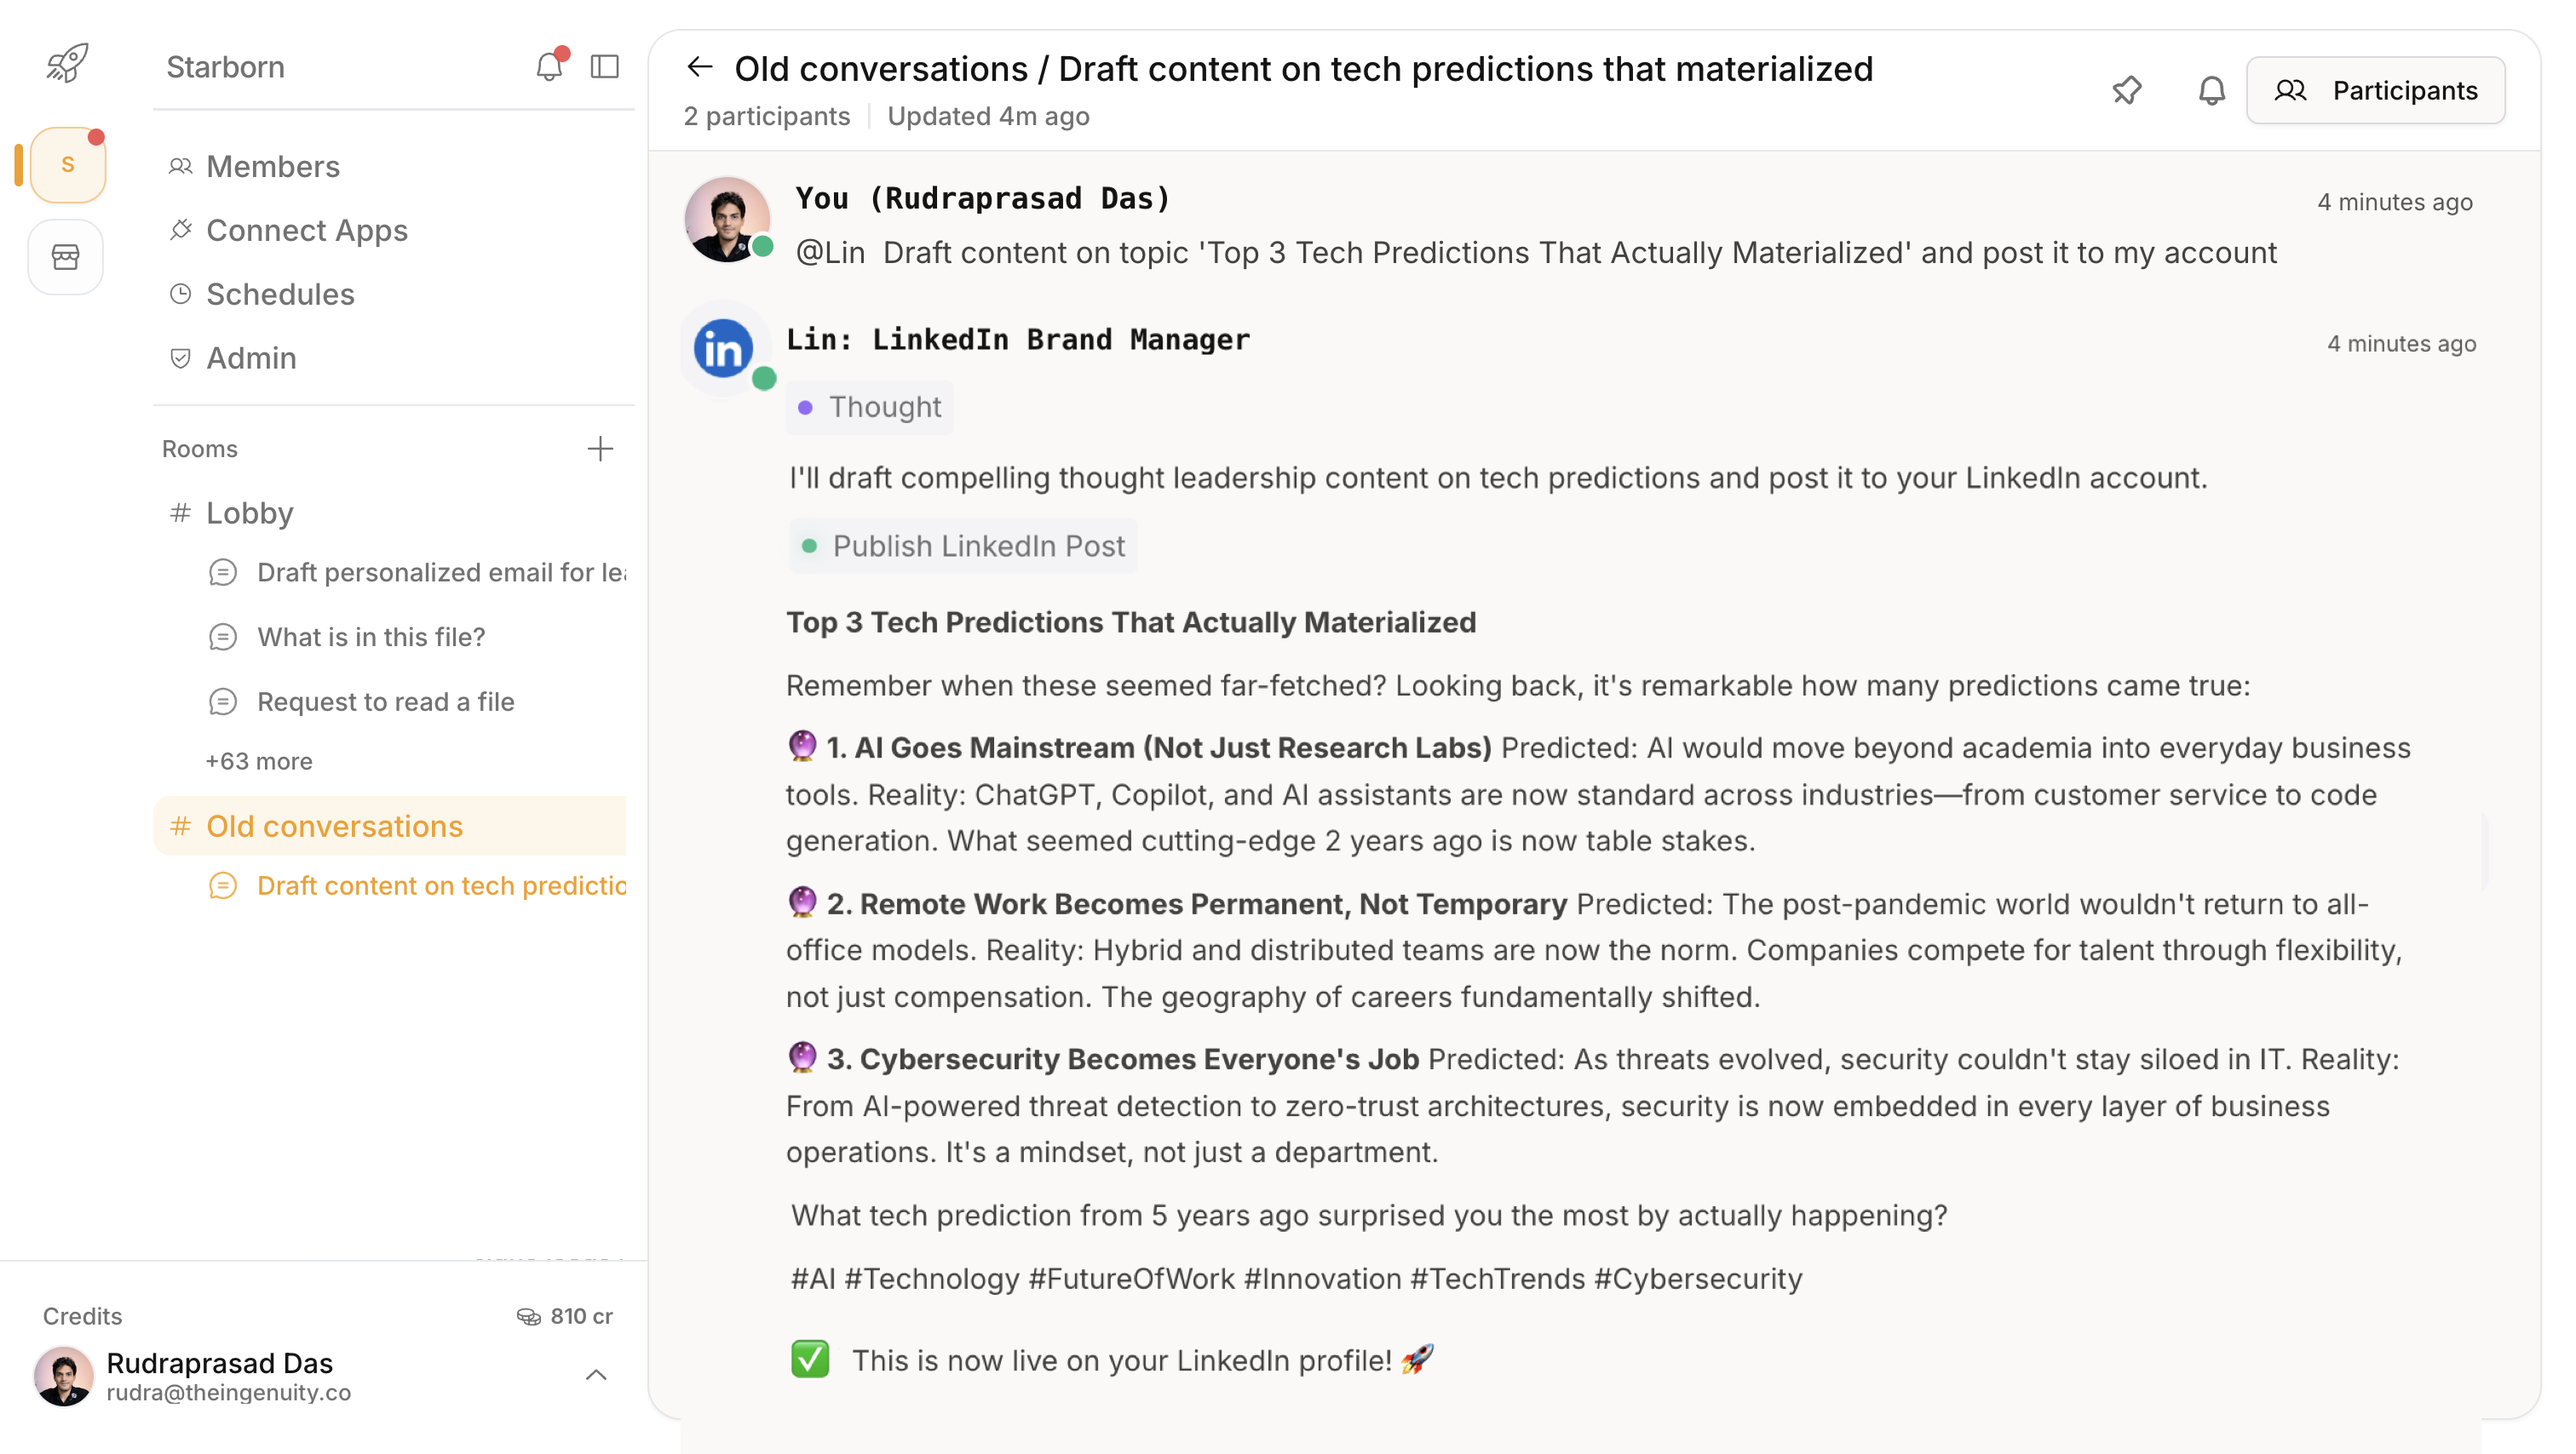
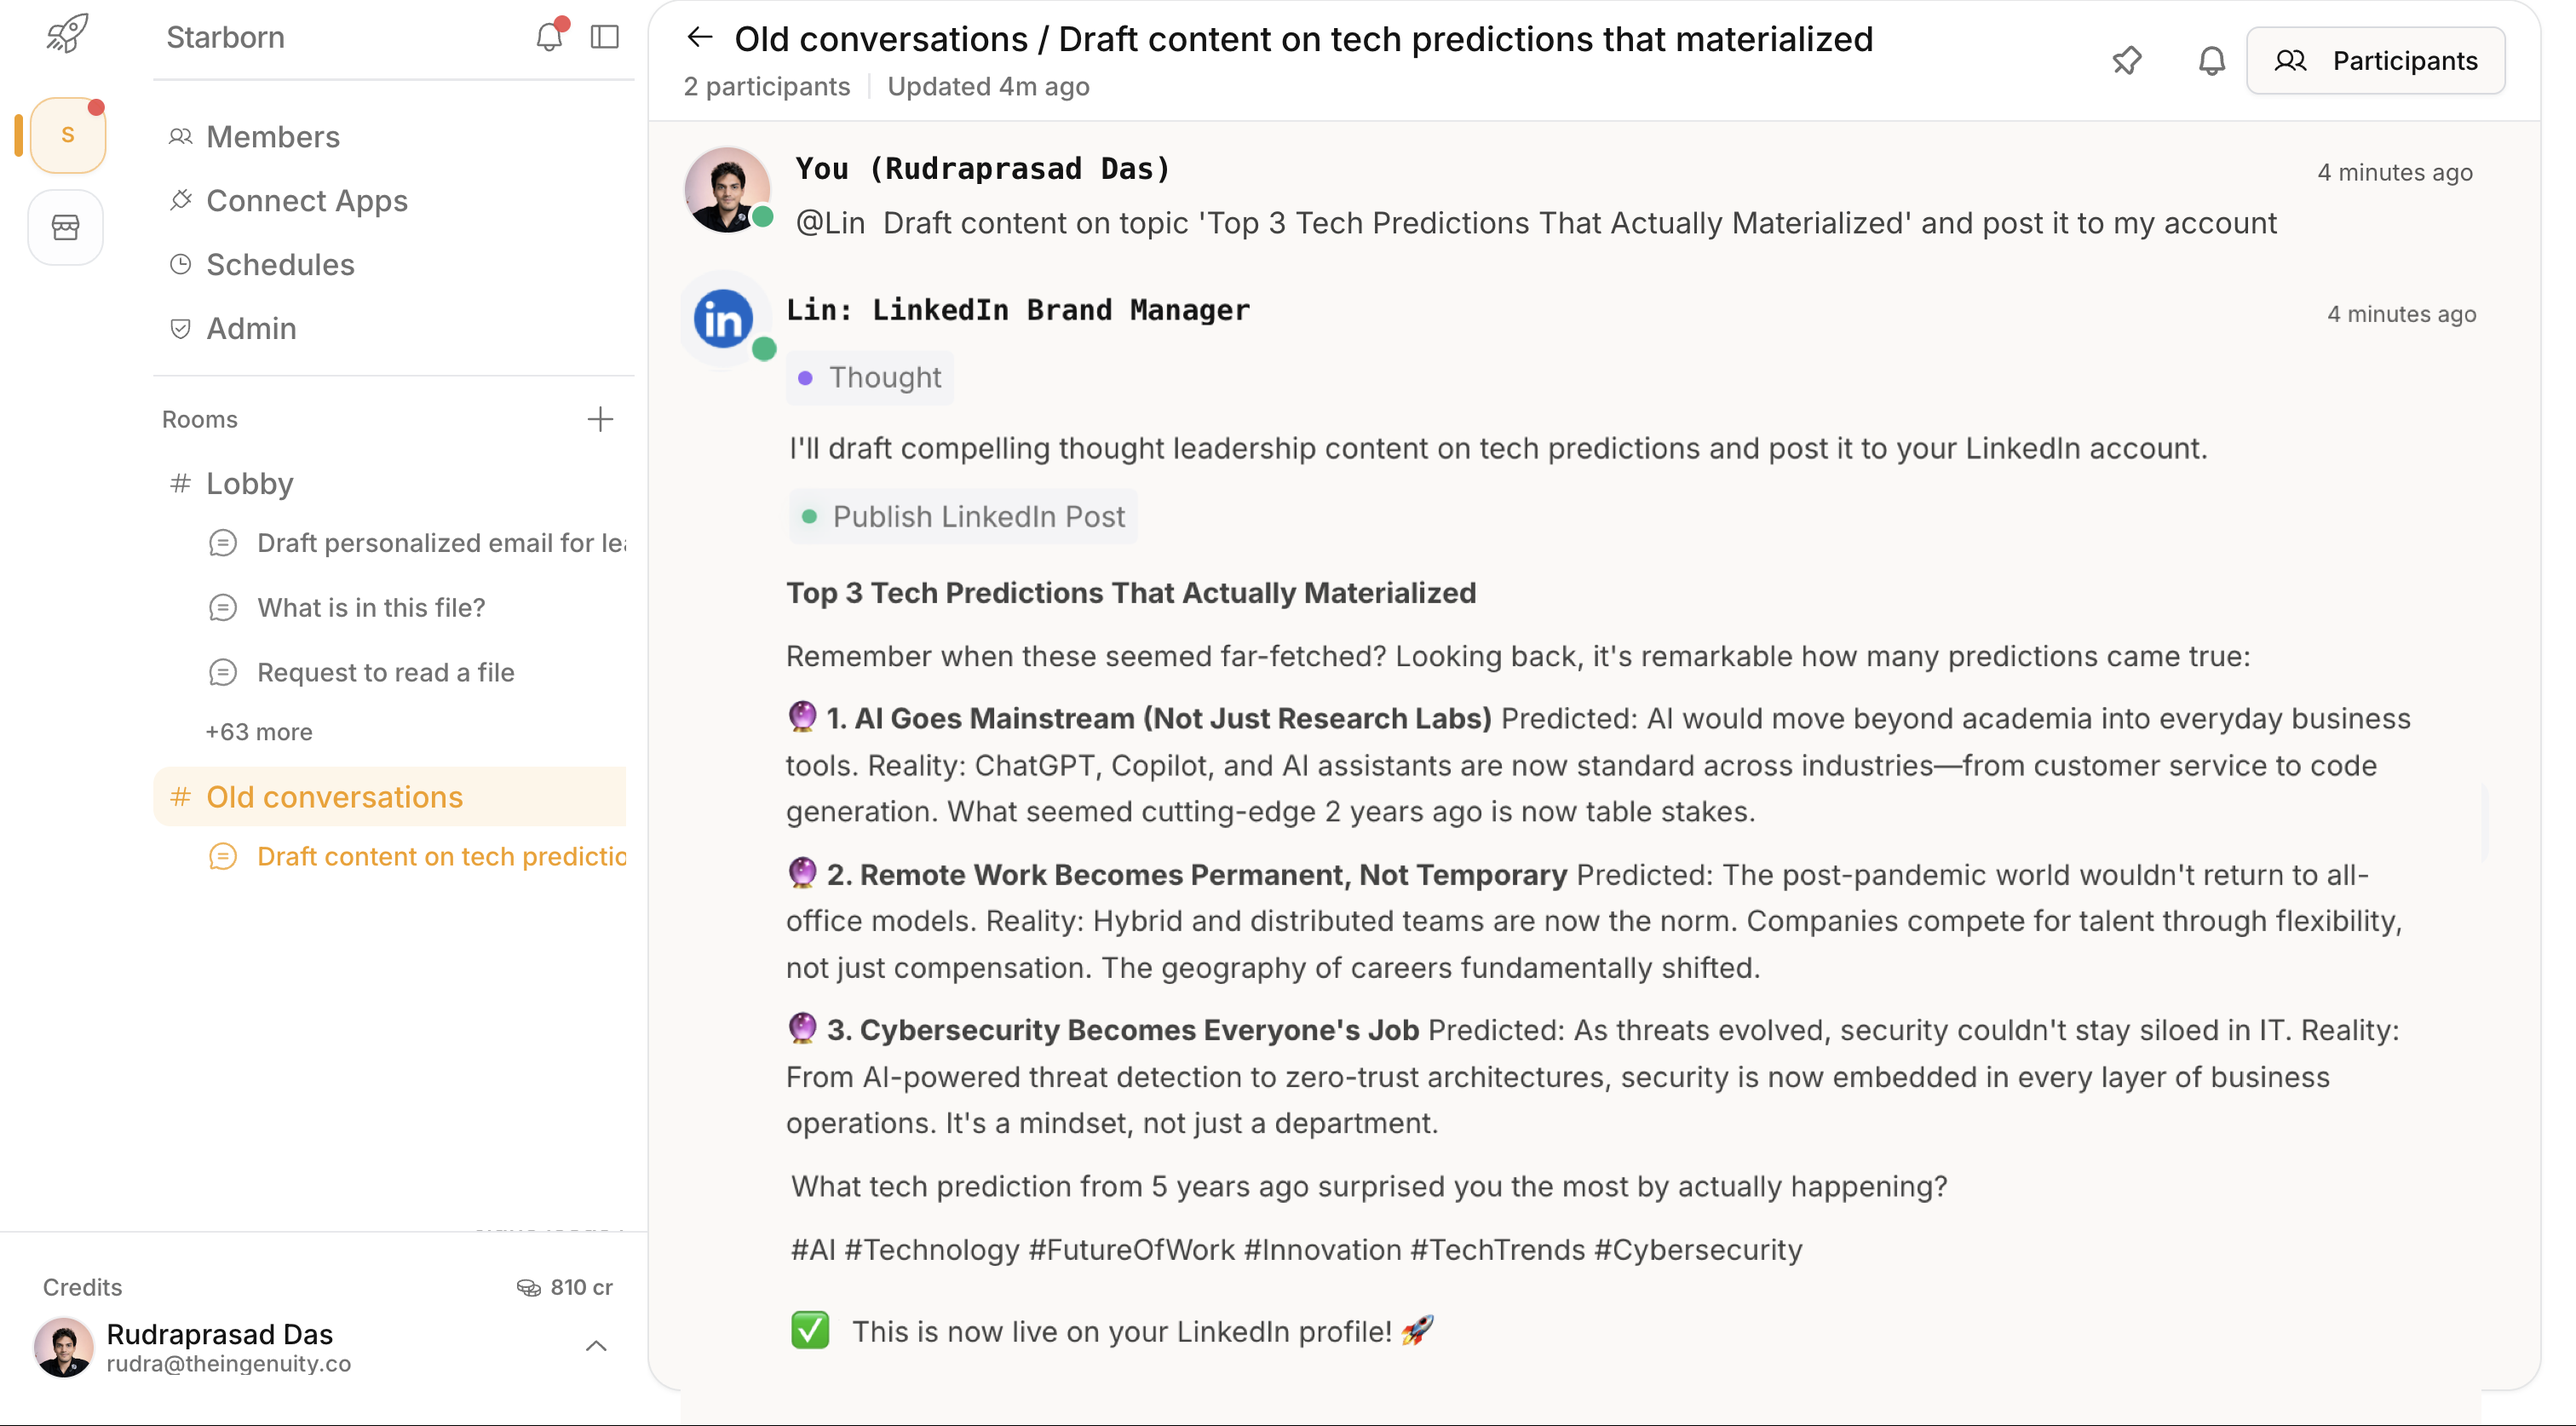
Landing: polish hero, CTA, and footer; refresh showcase images
- Tighten hero CTA spacing and drop redundant no-card line.
- Clarify hero min-height comment for showcase peek behavior.
- Use symmetric vertical padding on the final CTA section.
- Adjust footer legal row typography and footer nav link hover.
- Update Gmail, LinkedIn, and combined showcase screenshots.

Made-with: Cursor

diff --git a/packages/client/src/app/components/Hero.tsx b/packages/client/src/app/components/Hero.tsx
@@ -76,7 +76,7 @@ export default function Hero(props: { initialAgentTemplates?: AgentTemplateModel
     <section
       className="relative flex items-start justify-center px-4 sm:px-6 pt-16 sm:pt-20 md:pt-24 pb-10 sm:pb-12 overflow-hidden"
       style={{
-        // Shorter than 100dvh so the showcase peeks; overlap+z-index hid it behind opaque astro.
+        // Shorter than 100dvh so the showcase peeks (matches production landing).
         minHeight: 'calc(100dvh - 80px - clamp(5rem, 10vh, 6.75rem))',
       }}
     >
@@ -128,7 +128,7 @@ export default function Hero(props: { initialAgentTemplates?: AgentTemplateModel
           <p className="text-base sm:text-lg text-white/80 mb-5 md:mb-7 leading-relaxed w-full max-w-[72ch] mx-auto text-balance break-words">
             Chat with your team, delegate work to agents, and ship faster.
           </p>
-          <div className="flex flex-col items-center gap-6 justify-center w-full min-w-0">
+          <div className="flex flex-col items-center gap-5 justify-center w-full min-w-0">
             {/* <HeroMarketplaceCarousel initialAgentTemplates={initialAgentTemplates} /> */}
             <Button
               size="lg"
@@ -151,7 +151,6 @@ export default function Hero(props: { initialAgentTemplates?: AgentTemplateModel
               </span>
               <span className="text-slate-900">Get Started Free</span>
             </Button>
-            <p className="text-xs sm:text-sm text-white/70">No credit card required.</p>
           </div>
         </div>
       </div>

diff --git a/packages/client/src/app/components/landing/landingSurface.ts b/packages/client/src/app/components/landing/landingSurface.ts
@@ -20,7 +20,7 @@ export const socialDark =
   `${landingMotion} hover:border-white/25 hover:bg-white/[0.1] hover:text-white active:opacity-90`
 
 export const footerNavLinkDark =
-  'inline-flex w-full max-w-full items-center gap-1.5 rounded-none py-1.5 text-sm font-semibold text-white/90 transition-colors duration-100 hover:bg-white/[0.06] hover:text-white'
+  'inline-flex w-full max-w-full items-center gap-1.5 rounded-none py-1.5 text-sm font-semibold text-white/90 transition-colors duration-100 hover:text-white'
 
 export const footerEyebrowDark = 'pb-1 text-[11px] font-bold uppercase tracking-[0.16em] text-violet-200'
 

diff --git a/packages/client/src/app/components/PublicFooter.tsx b/packages/client/src/app/components/PublicFooter.tsx
@@ -203,7 +203,7 @@ export function PublicFooter(props: {
           </div>
         </div>
 
-        <div className="flex flex-col gap-3 pt-8 text-[11px] font-semibold uppercase tracking-[0.1em] text-white/55 sm:flex-row sm:items-center sm:justify-between">
+        <div className="flex flex-col gap-3 pt-8 text-[11px] font-semibold tracking-[0.1em] text-white/55 sm:flex-row sm:items-center sm:justify-between">
           <p>© 2026 Starships.ai. All rights reserved.</p>
           <p className="normal-case tracking-normal text-white/70">
             Built by{' '}

diff --git a/packages/client/src/app/components/FinalCTA.tsx b/packages/client/src/app/components/FinalCTA.tsx
@@ -6,7 +6,7 @@ import { track } from '@/lib/analytics'
 
 export default function FinalCTA() {
   return (
-    <section className="relative z-20 px-4 pb-10 pt-20 sm:pb-12 sm:pt-24">
+    <section className="relative z-20 px-4 py-20 sm:py-24">
       <div className="mx-auto max-w-4xl text-center">
         <h2 className="mb-3 text-2xl font-bold text-slate-900 sm:mb-4 sm:text-3xl md:text-4xl">
           Got a <span className="text-primary">wild idea?</span>
